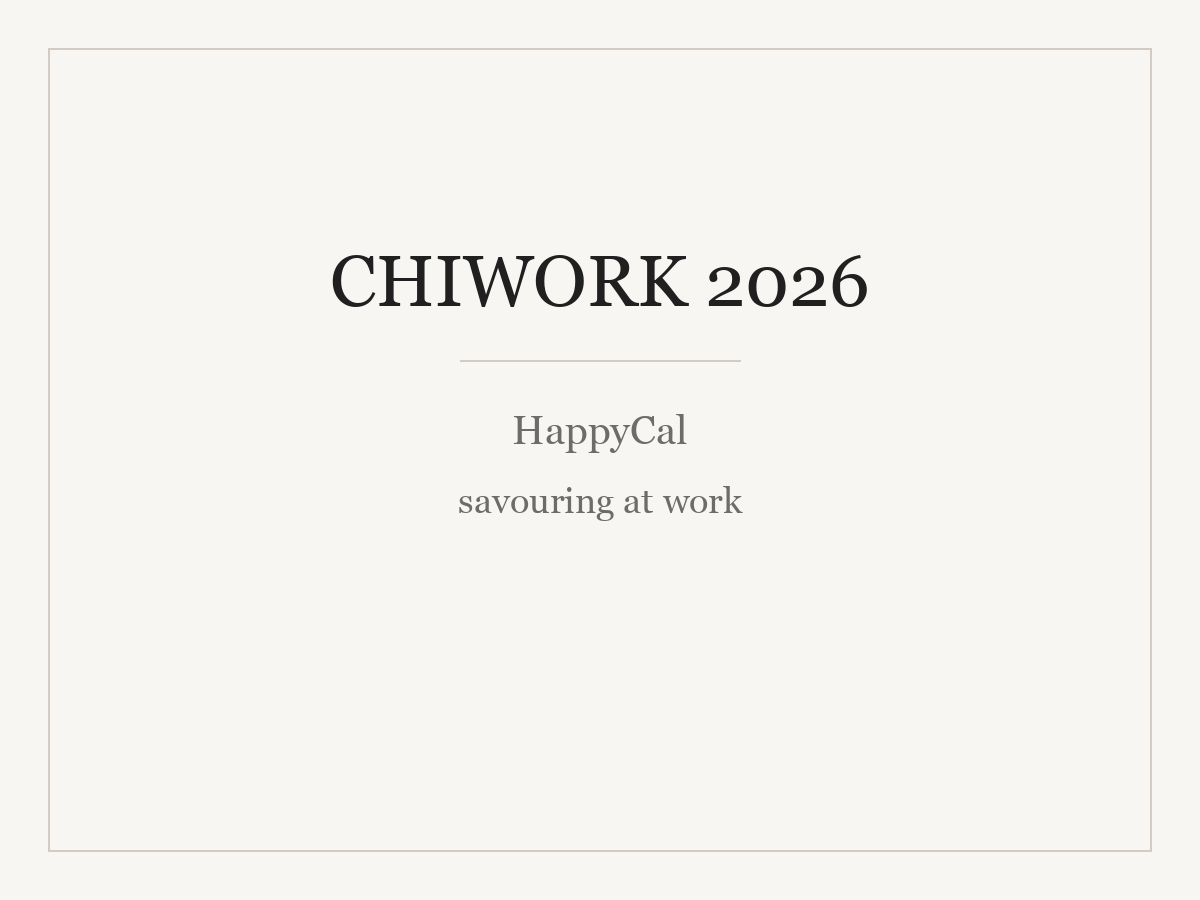
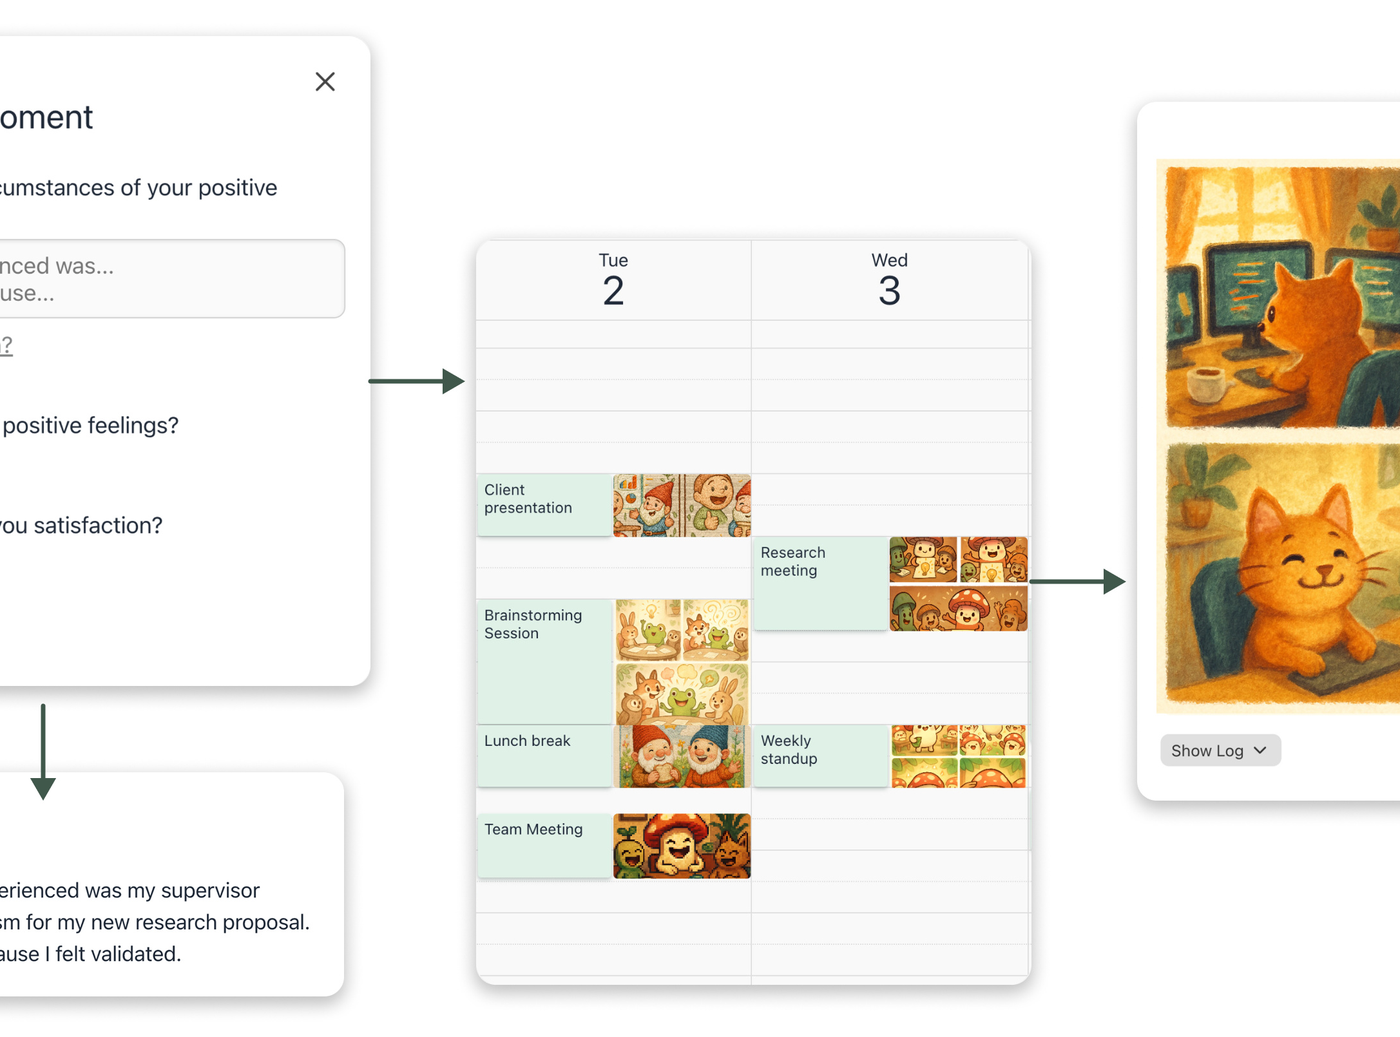
Polish homepage for clearer actionability and research framing.
Fix News chronology and VIXI wording, split PDF/DOI links, reselect Selected pubs (including Best Paper), refresh themes, and replace the HappyCal teaser with Figure 1 from the paper.

diff --git a/index.html b/index.html
@@ -12,23 +12,23 @@ title: About
 <p class="job">I am actively looking for a research and development position.</p>
 
 <h1>Research Themes</h1>
-<p>I study how affect and cognitive load shape independent learning, then use that understanding to design adaptive support. The work sits in three themes:</p>
+<p>I study how people feel and think while learning with technology, then design support that improves experience and performance. The work sits in three themes:</p>
 
 <div class="themes">
   <div class="theme-col">
-    <h2 class="pill pill-a">Affect</h2>
+    <h2 class="pill pill-a">Learning Experience</h2>
     <ul>
-      <li>Valence &amp; activation</li>
-      <li>Meta-affect</li>
-      <li>Experience sampling</li>
+      <li>Affect &amp; cognitive load</li>
+      <li>Multimodal sensing</li>
+      <li>Adaptive support</li>
     </ul>
   </div>
   <div class="theme-col">
-    <h2 class="pill pill-b">Cognitive Load</h2>
+    <h2 class="pill pill-b">Human–AI Interaction</h2>
     <ul>
-      <li>Multimodal sensing</li>
-      <li>Physiology &amp; logs</li>
-      <li>Adaptive support</li>
+      <li>AI-supported well-being</li>
+      <li>Pedagogical agents &amp; tools</li>
+      <li>User-centered adaptation</li>
     </ul>
   </div>
   <div class="theme-col">
@@ -43,7 +43,7 @@ title: About
 
 <h1>Selected Publications</h1>
 {% assign selected = site.data.publications | where: "selected", true %}
-{% for pub in selected limit:6 %}
+{% for pub in selected %}
 {% include pub.html %}
 {% endfor %}
 

diff --git a/_includes/pub.html b/_includes/pub.html
@@ -9,7 +9,9 @@
       {% if pub.theme %}<span class="theme">{{ pub.theme }}</span>{% endif %}
     </p>
     <p class="pub-links">
-      {% if pub.doi %}<a href="{{ pub.doi }}">PDF / DOI</a>{% endif %}
+      {% if pub.pdf %}<a href="{{ pub.pdf }}">PDF</a>{% endif %}
+      {% if pub.pdf and pub.doi %} · {% endif %}
+      {% if pub.doi %}<a href="{{ pub.doi }}">DOI</a>{% endif %}
     </p>
   </div>
 </article>

diff --git a/_includes/sidebar.html b/_includes/sidebar.html
@@ -4,6 +4,7 @@
 <p class="sidebar-links">
   <a href="mailto:{{ site.email }}">{{ site.email }}</a><br>
   <a href="{{ site.scholar }}">Google Scholar</a>
+  · <a href="{{ site.github }}">GitHub</a>
   · <a href="{{ site.linkedin }}">LinkedIn</a>
   · <a href="{{ site.twitter }}">Twitter</a>
 </p>
